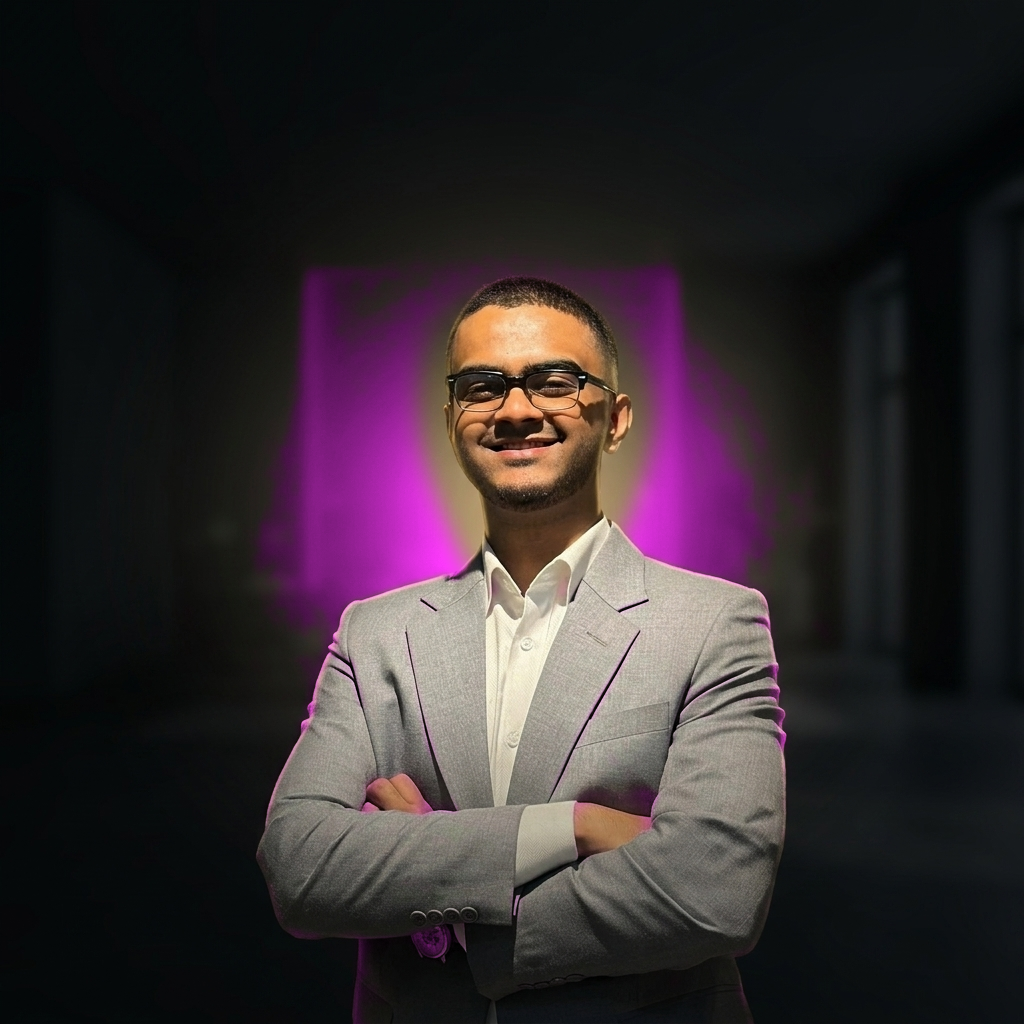
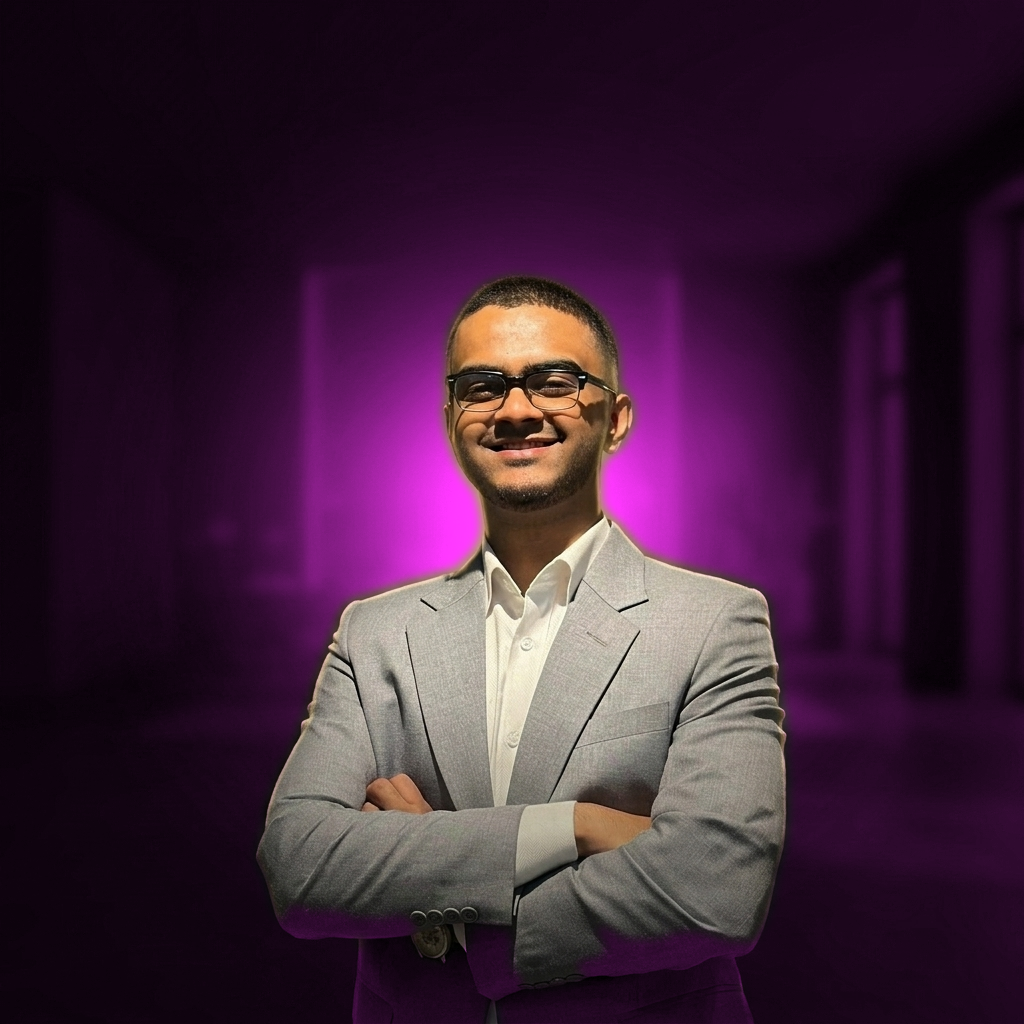
Find the hero background geometrically, not by colour
Measured, the previous grade left 15.5% of the rendered crop still at
gold hue — a large patch behind his right shoulder. Every colour-based
attempt so far had left gold somewhere, and the reason is structural: the
whole scene is lit by warm gold light, so wall, suit and skin all carry the
same cast and no colour rule separates them.

Normalised warmth (R-B)/L was the specific mistake. A bright beige panel
sits at 0.16, the same value as the grey suit, so the gate protecting the
suit was also skipping genuinely gold background.

Replaced with a geometric silhouette: his outline is a strong luminance
gradient, so flooding inward from the frame border through low-gradient
pixels fills the background and halts at him, and whatever the flood cannot
reach is the subject. Being colour-independent, the entire background can
then be graded regardless of hue.

Added `python3 scripts/regrade-hero.py audit`, which counts pixels left in
the gold hue band (20-65 degrees, saturated and bright enough to see)
inside the region the arch actually renders, split by whether they fall on
him. Measured now: 0 outside the subject for crimson, teal and purple.
Amber reports 26.87% because its accent is itself gold — that one is the
control.

The claim in the previous commit was not verified. It rested on probe
points and a 233px thumbnail, which is why it was wrong.

diff --git a/scripts/regrade-hero.py b/scripts/regrade-hero.py
@@ -2,32 +2,38 @@
 """
 Regenerate the palette-graded hero portraits.
 
-    python3 scripts/regrade-hero.py
+    python3 scripts/regrade-hero.py        # writes the four variants
+    python3 scripts/regrade-hero.py audit  # + reports leftover gold-hue pixels
 
 Reads public/AhnafHussain.png (the master, shot against a warm gold ambient)
 and writes public/AhnafHussain-<palette>.png for each palette.
 
-The source's gold ambient clashed with every palette except amber. Rather than
-cutting the subject out — which needs alpha matting we don't have, and which
-fails on hair against a dark background — this re-grades only the ambient,
-preserving each pixel's luminance so texture and the arch's vignette survive.
+Why a flood-filled silhouette and not a colour rule
+---------------------------------------------------
+The entire scene is lit by warm gold light, so the wall, the suit and the skin
+all carry the same cast. No colour-only rule separates background from subject:
+several were tried and each one left gold somewhere.
 
-The mask is built from normalised warmth (R-B)/L, which separates the scene
-three ways:
+    Normalised warmth (R-B)/L was the worst offender. A bright beige panel sits
+    at 0.16 — the same value as the grey suit — so gating out "neutral" pixels
+    to protect the suit also skipped genuinely gold background. That is what
+    left the gold patch behind his right shoulder.
 
-    grey suit / white shirt   0.10 - 0.13   (neutral, must not shift)
-    wall + halo               0.31 - 0.39   (the target)
-    skin                      0.43 - 0.83   (strongly red-dominant, protect)
+Instead the background is found geometrically: his outline is a strong
+luminance gradient, so flooding inward from the frame border through
+low-gradient pixels fills the background and stops at him. Whatever the flood
+cannot reach is the subject. Being independent of colour, it lets the entire
+background be graded regardless of hue.
 
-Luminance alone does not work: the bright core of the halo behind the head sits
-in the same range as lit skin, so a luminance gate either leaves a gold smudge
-or tints the face.
+Run with `audit` to get a measured count of gold-hue pixels left in the region
+the arch actually renders — eyeballing a thumbnail is not verification.
 
 Requires: pillow, numpy.
 """
 
 from PIL import Image, ImageFilter
 import numpy as np
+import sys
 import os
 
 SRC = 'public/AhnafHussain.png'
@@ -45,10 +51,12 @@ ACCENTS = {
 # saturated; much above 0.6 stops reading as a photograph.
 SAT = 0.60
 
+# Gradient below this is "flat enough to flood through". Higher leaks through
+# his outline; lower strands pockets of background.
+EDGE = 0.10
 
-def smoothstep(e0, e1, x):
-    t = np.clip((x - e0) / (e1 - e0), 0, 1)
-    return t * t * (3 - 2 * t)
+# The region the arch actually renders: object-fit cover + scale(1.35).
+CROP = (219, 133, 805, 891)
 
 
 def blur(m, radius):
@@ -56,50 +64,55 @@ def blur(m, radius):
     return np.asarray(img.filter(ImageFilter.GaussianBlur(radius))).astype(np.float32) / 255.0
 
 
-def skin_mask(L, warm):
-    """Face/neck and hands, grown outward from unambiguously-skin pixels.
+def subject_mask(L):
+    """Everything the background flood cannot reach — i.e. the person."""
+    gx = np.zeros_like(L)
+    gy = np.zeros_like(L)
+    gx[:, 1:-1] = L[:, 2:] - L[:, :-2]
+    gy[1:-1] = L[2:] - L[:-2]
+    grad = blur(np.clip(np.sqrt(gx ** 2 + gy ** 2) * 4, 0, 1), 2)
 
-    Only skin needs protecting spatially. Suit and shirt protect themselves by
-    being neutral — warmth 0.07-0.25, against the glow's 0.22-0.60 — and
-    folding them into a silhouette caused more trouble than it solved.
+    passable = grad < EDGE
+    reach = np.zeros_like(passable)
+    reach[0, :] = reach[-1, :] = reach[:, 0] = reach[:, -1] = True
+    reach &= passable
 
-    Shadowed skin cannot be found by colour: the shadowed jaw sits at warmth
-    0.44 against the wall's 0.40. It has to be reached by growing outward from
-    lit skin far enough to cover it (~46px) while stopping short of the glow,
-    which is ~150px away.
+    # Geodesic dilation: grow the border region through passable pixels until
+    # it stops changing. MaxFilter(9) advances ~4px per pass.
+    prev, iters = -1, 0
+    while reach.sum() != prev and iters < 400:
+        prev = reach.sum()
+        grown = np.asarray(
+            Image.fromarray((reach * 255).astype(np.uint8)).filter(ImageFilter.MaxFilter(9))
+        ) > 0
+        reach = grown & passable
+        iters += 1
 
-    Head and hands grow separately — the hands are a thin horizontal band and
-    dissolve under a radius large enough for the head.
-    """
-    conf = ((warm > 0.62) & (L > 0.15)).astype(np.float32)
-    head = conf.copy()
-    head[700:] = 0
-    hands = conf.copy()
-    hands[:700] = 0
-    grown = np.maximum(
-        (blur(head, 46) > 0.14).astype(np.float32),
-        (blur(hands, 26) > 0.13).astype(np.float32),
-    )
-    return blur(grown, 10)
+    solid = (blur((~reach).astype(np.float32), 6) > 0.45).astype(np.float32)
+    return blur(solid, 4)
 
 
-def main():
+def gold_hue(rgb01):
+    """Pixels that still read as gold/amber to the eye."""
+    mx, mn = rgb01.max(2), rgb01.min(2)
+    sat = np.where(mx > 0, (mx - mn) / np.maximum(mx, 1e-6), 0)
+    r, g, b = rgb01[..., 0], rgb01[..., 1], rgb01[..., 2]
+    d = np.maximum(mx - mn, 1e-6)
+    h = np.where(mx == r, ((g - b) / d) % 6,
+                 np.where(mx == g, (b - r) / d + 2, (r - g) / d + 4)) * 60
+    return (h > 20) & (h < 65) & (sat > 0.15) & (mx > 0.15)
+
+
+def main(audit=False):
     a = np.asarray(Image.open(SRC).convert('RGB')).astype(np.float32) / 255.0
-    R, G, B = a[..., 0], a[..., 1], a[..., 2]
-    L = 0.299 * R + 0.587 * G + 0.114 * B
-    warm = (R - B) / (L + 1e-3)
+    L = 0.299 * a[..., 0] + 0.587 * a[..., 1] + 0.114 * a[..., 2]
 
-    # Grade what is actually warm, and keep it off skin. There is deliberately
-    # no upper warmth bound: the earlier "exclude skin" gate at 0.40-0.62 also
-    # excluded the bright core of the glow, which lives at 0.50-0.60 — that was
-    # the gold that survived behind his head.
-    mask = smoothstep(0.26, 0.36, warm) * (1 - skin_mask(L, warm))
-    # Along the hair/wall boundary single pixels alternate between hair and
-    # wall, so the mask alternates too and the grade speckles. A small blur
-    # resolves it into a clean edge.
-    mask = blur(mask, 3)[..., None]
-
+    subject = subject_mask(L)
+    mask = (1.0 - subject)[..., None]
     gray = np.repeat(L[..., None], 3, axis=2)
+
+    crop = np.zeros(L.shape, bool)
+    crop[CROP[1]:CROP[3], CROP[0]:CROP[2]] = True
 
     for name, rgb in ACCENTS.items():
         acc = np.array(rgb, np.float32) / 255.0
@@ -107,14 +120,21 @@ def main():
         # Scale the accent so it carries each pixel's own luminance
         tint = gray * (acc / acc_lum)[None, None, :]
         tint = gray + (tint - gray) * SAT
-        out = a * (1 - mask) + np.clip(tint, 0, 1) * mask
+        out = np.clip(a * (1 - mask) + np.clip(tint, 0, 1) * mask, 0, 1)
 
         path = f'{OUT}/AhnafHussain-{name}.png'
-        Image.fromarray((np.clip(out, 0, 1) * 255).round().astype(np.uint8)).save(
-            path, optimize=True
-        )
-        print(f'  {path}  {os.path.getsize(path) // 1024}KB')
+        Image.fromarray((out * 255).round().astype(np.uint8)).save(path, optimize=True)
+        line = f'  {path}  {os.path.getsize(path) // 1024}KB'
+
+        if audit:
+            gold = gold_hue(out) & crop
+            outside = int((gold & (subject < 0.4)).sum())
+            inside = int((gold & (subject >= 0.4)).sum())
+            line += (f'  | gold-hue: {outside} outside subject'
+                     f' ({100 * outside / crop.sum():.2f}%),'
+                     f' {inside} on him (skin/suit, expected)')
+        print(line)
 
 
 if __name__ == '__main__':
-    main()
+    main(audit='audit' in sys.argv)
